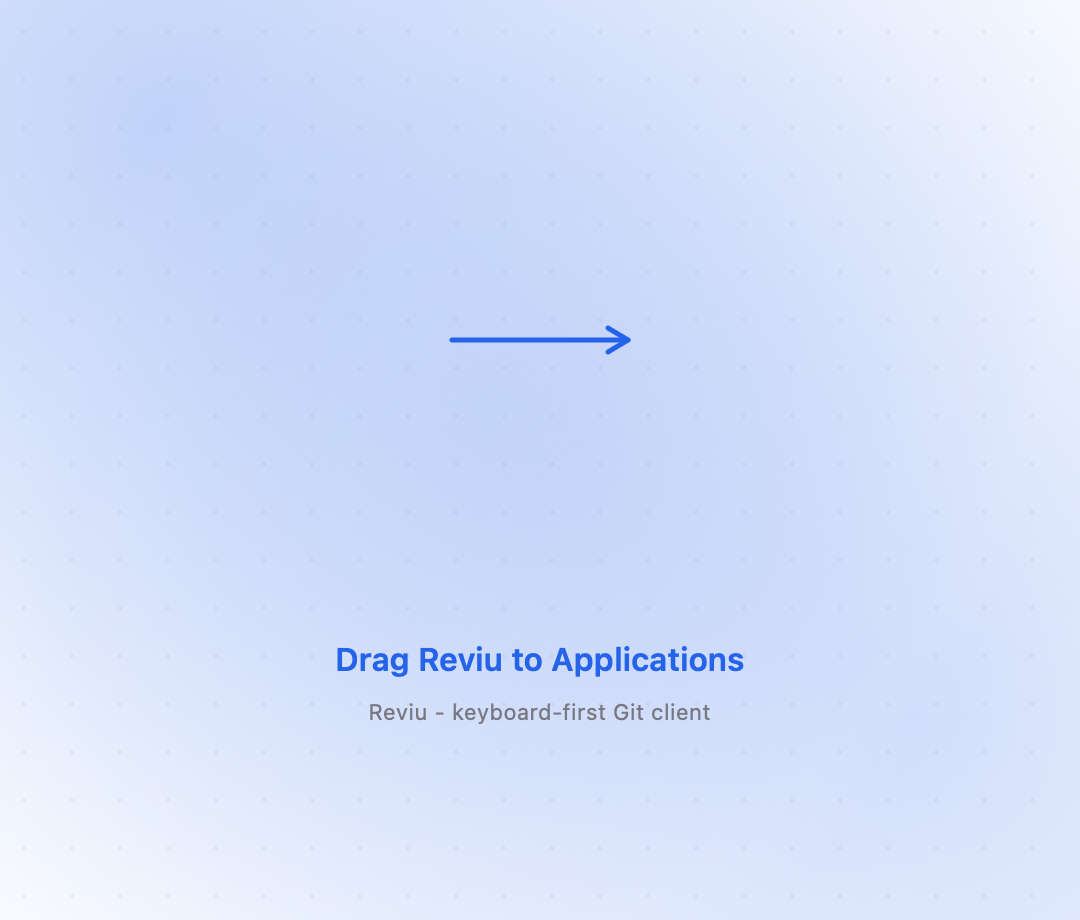
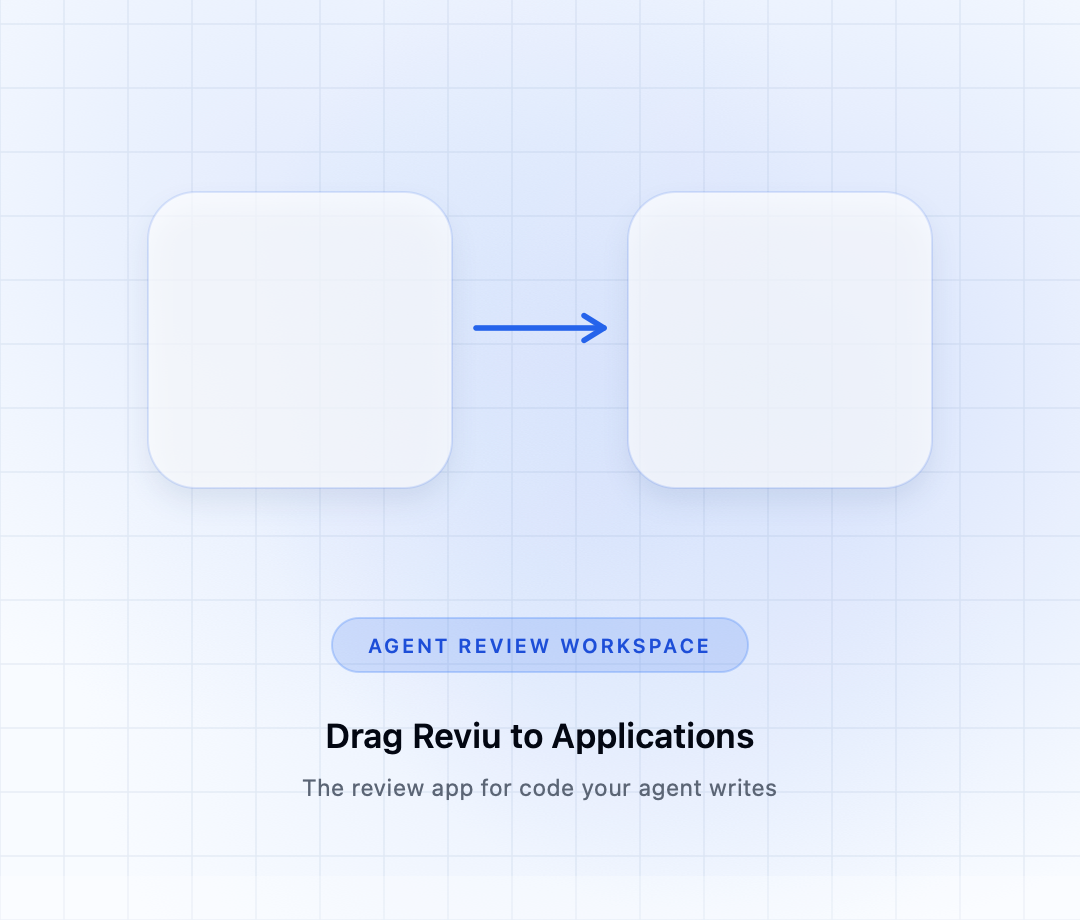
style(macos): refresh DMG installer background

diff --git a/desktop/scripts/assets/generate-dmg-background.swift b/desktop/scripts/assets/generate-dmg-background.swift
@@ -29,26 +29,25 @@ func rgb(_ r: Int, _ g: Int, _ b: Int, _ a: CGFloat = 1) -> CGColor {
     CGColor(srgbRed: CGFloat(r) / 255, green: CGFloat(g) / 255, blue: CGFloat(b) / 255, alpha: a)
 }
 
-let white = rgb(255, 255, 255)
-let lightBlue = rgb(0x80, 0xCA, 0xFF)
-let indigo = rgb(0x4F, 0x46, 0xE5)
+let background = rgb(0xF8, 0xFB, 0xFF)
+let panel = rgb(0xFF, 0xFF, 0xFF)
 let primary = rgb(0x25, 0x63, 0xEB)
-let mutedFg = rgb(120, 120, 130)
+let primaryLight = rgb(0x1D, 0x4E, 0xD8)
+let foreground = rgb(0x03, 0x07, 0x12)
+let mutedForeground = rgb(0x5B, 0x65, 0x75)
 
-ctx.setFillColor(white)
+ctx.setFillColor(background)
 ctx.fill(CGRect(x: 0, y: 0, width: widthPt, height: heightPt))
 
 func radialBlob(center: CGPoint, radius: CGFloat, color: CGColor, alpha: CGFloat) {
     let comps = color.components ?? [0, 0, 0, 1]
-    let r = comps[0], g = comps[1], b = comps[2]
-    let inner = CGColor(srgbRed: r, green: g, blue: b, alpha: alpha)
-    let outer = CGColor(srgbRed: r, green: g, blue: b, alpha: 0)
+    let inner = CGColor(srgbRed: comps[0], green: comps[1], blue: comps[2], alpha: alpha)
+    let outer = CGColor(srgbRed: comps[0], green: comps[1], blue: comps[2], alpha: 0)
     let gradient = CGGradient(
         colorsSpace: colorSpace,
         colors: [inner, outer] as CFArray,
         locations: [0, 1]
     )!
-    ctx.saveGState()
     ctx.drawRadialGradient(
         gradient,
         startCenter: center,
@@ -57,37 +56,64 @@ func radialBlob(center: CGPoint, radius: CGFloat, color: CGColor, alpha: CGFloat
         endRadius: radius,
         options: []
     )
+}
+
+radialBlob(center: CGPoint(x: 400, y: 270), radius: 280, color: primary, alpha: 0.16)
+radialBlob(center: CGPoint(x: 150, y: 350), radius: 260, color: primary, alpha: 0.10)
+radialBlob(center: CGPoint(x: 270, y: 120), radius: 230, color: primary, alpha: 0.06)
+
+ctx.saveGState()
+ctx.setStrokeColor(CGColor(srgbRed: 0.37, green: 0.48, blue: 0.68, alpha: 0.12))
+ctx.setLineWidth(0.7)
+let gridSpacing: CGFloat = 32
+var gridX: CGFloat = 0
+while gridX <= widthPt {
+    ctx.move(to: CGPoint(x: gridX, y: 0))
+    ctx.addLine(to: CGPoint(x: gridX, y: heightPt))
+    gridX += gridSpacing
+}
+var gridY: CGFloat = 0
+while gridY <= heightPt {
+    ctx.move(to: CGPoint(x: 0, y: gridY))
+    ctx.addLine(to: CGPoint(x: widthPt, y: gridY))
+    gridY += gridSpacing
+}
+ctx.strokePath()
+ctx.restoreGState()
+
+func roundedRect(_ rect: CGRect, radius: CGFloat) -> CGPath {
+    CGPath(roundedRect: rect, cornerWidth: radius, cornerHeight: radius, transform: nil)
+}
+
+func drawCard(center: CGPoint) {
+    let rect = CGRect(x: center.x - 76, y: center.y - 74, width: 152, height: 148)
+    ctx.saveGState()
+    ctx.setShadow(offset: CGSize(width: 0, height: -14), blur: 28, color: CGColor(srgbRed: 0.10, green: 0.20, blue: 0.40, alpha: 0.14))
+    ctx.setFillColor(CGColor(srgbRed: 1, green: 1, blue: 1, alpha: 0.68))
+    ctx.addPath(roundedRect(rect, radius: 24))
+    ctx.fillPath()
+    ctx.restoreGState()
+
+    ctx.saveGState()
+    ctx.setStrokeColor(CGColor(srgbRed: 0.18, green: 0.38, blue: 0.92, alpha: 0.14))
+    ctx.setLineWidth(1)
+    ctx.addPath(roundedRect(rect, radius: 24))
+    ctx.strokePath()
     ctx.restoreGState()
 }
 
-radialBlob(center: CGPoint(x: 80, y: 400), radius: 460, color: primary, alpha: 0.28)
-radialBlob(center: CGPoint(x: 460, y: 100), radius: 460, color: primary, alpha: 0.20)
-radialBlob(center: CGPoint(x: 270, y: 230), radius: 280, color: primary, alpha: 0.08)
-
-ctx.saveGState()
-ctx.setFillColor(CGColor(srgbRed: 0.15, green: 0.18, blue: 0.30, alpha: 0.06))
-let dotSpacing: CGFloat = 24
-let dotRadius: CGFloat = 1.0
-var y: CGFloat = dotSpacing / 2
-while y < heightPt {
-    var x: CGFloat = dotSpacing / 2
-    while x < widthPt {
-        ctx.fillEllipse(in: CGRect(x: x - dotRadius, y: y - dotRadius, width: dotRadius * 2, height: dotRadius * 2))
-        x += dotSpacing
-    }
-    y += dotSpacing
-}
-ctx.restoreGState()
-
 let iconLeftCenter = CGPoint(x: 150, y: heightPt - 170)
 let iconRightCenter = CGPoint(x: 390, y: heightPt - 170)
-let arrowY = iconLeftCenter.y
-let arrowStartX = iconLeftCenter.x + 76
-let arrowEndX = iconRightCenter.x - 76
+drawCard(center: iconLeftCenter)
+drawCard(center: iconRightCenter)
+
+let arrowY = iconLeftCenter.y + 6
+let arrowStartX = iconLeftCenter.x + 88
+let arrowEndX = iconRightCenter.x - 88
 
 ctx.saveGState()
 ctx.setStrokeColor(primary)
-ctx.setLineWidth(2.5)
+ctx.setLineWidth(2.8)
 ctx.setLineCap(.round)
 ctx.setLineJoin(.round)
 ctx.move(to: CGPoint(x: arrowStartX, y: arrowY))
@@ -96,21 +122,21 @@ ctx.strokePath()
 
 let head: CGFloat = 10
 ctx.move(to: CGPoint(x: arrowEndX, y: arrowY))
-ctx.addLine(to: CGPoint(x: arrowEndX - head, y: arrowY + head * 0.6))
+ctx.addLine(to: CGPoint(x: arrowEndX - head, y: arrowY + head * 0.62))
 ctx.move(to: CGPoint(x: arrowEndX, y: arrowY))
-ctx.addLine(to: CGPoint(x: arrowEndX - head, y: arrowY - head * 0.6))
+ctx.addLine(to: CGPoint(x: arrowEndX - head, y: arrowY - head * 0.62))
 ctx.strokePath()
 ctx.restoreGState()
 
-func drawText(_ string: String, at point: CGPoint, font: NSFont, color: CGColor, centered: Bool = true) {
-    let nsColor = NSColor(cgColor: color) ?? NSColor.black
+func drawText(_ string: String, at point: CGPoint, font: NSFont, color: CGColor, centered: Bool = true, kern: CGFloat = 0.2) {
+    let nsColor = NSColor(cgColor: color) ?? NSColor.white
     let paragraph = NSMutableParagraphStyle()
     paragraph.alignment = centered ? .center : .left
     let attrs: [NSAttributedString.Key: Any] = [
         .font: font,
         .foregroundColor: nsColor,
         .paragraphStyle: paragraph,
-        .kern: 0.2
+        .kern: kern,
     ]
     let attr = NSAttributedString(string: string, attributes: attrs)
     let size = attr.size()
@@ -127,18 +153,36 @@ func drawText(_ string: String, at point: CGPoint, font: NSFont, color: CGColor,
 
 func bestFont(_ candidates: [String], size: CGFloat, weight: NSFont.Weight) -> NSFont {
     for name in candidates {
-        if let f = NSFont(name: name, size: size) {
-            return f
+        if let font = NSFont(name: name, size: size) {
+            return font
         }
     }
     return NSFont.systemFont(ofSize: size, weight: weight)
 }
 
-let titleFont = bestFont(["Poppins-SemiBold", "Poppins-Medium", "Poppins"], size: 16, weight: .semibold)
-let captionFont = bestFont(["Poppins-Regular", "Poppins"], size: 11, weight: .regular)
+let badgeFont = bestFont(["Poppins-SemiBold", "Poppins"], size: 10, weight: .semibold)
+let titleFont = bestFont(["Poppins-SemiBold", "Poppins-Medium", "Poppins"], size: 17, weight: .semibold)
+let captionFont = bestFont(["Poppins-Regular", "Poppins"], size: 11.5, weight: .regular)
 
-drawText("Drag Reviu to Applications", at: CGPoint(x: widthPt / 2, y: 130), font: titleFont, color: primary)
-drawText("Reviu - keyboard-first Git client", at: CGPoint(x: widthPt / 2, y: 104), font: captionFont, color: mutedFg)
+let badgeRect = CGRect(x: 166, y: 124, width: 208, height: 27)
+ctx.saveGState()
+ctx.setFillColor(CGColor(srgbRed: 0.145, green: 0.388, blue: 0.922, alpha: 0.16))
+ctx.addPath(roundedRect(badgeRect, radius: 13.5))
+ctx.fillPath()
+ctx.setStrokeColor(CGColor(srgbRed: 0.36, green: 0.58, blue: 0.98, alpha: 0.36))
+ctx.setLineWidth(1)
+ctx.addPath(roundedRect(badgeRect, radius: 13.5))
+ctx.strokePath()
+ctx.restoreGState()
+
+drawText("AGENT REVIEW WORKSPACE", at: CGPoint(x: badgeRect.midX, y: badgeRect.midY - 0.5), font: badgeFont, color: primaryLight, kern: 1.2)
+drawText("Drag Reviu to Applications", at: CGPoint(x: widthPt / 2, y: 92), font: titleFont, color: foreground)
+drawText("The review app for code your agent writes", at: CGPoint(x: widthPt / 2, y: 66), font: captionFont, color: mutedForeground)
+
+ctx.saveGState()
+ctx.setFillColor(panel.copy(alpha: 0.28) ?? panel)
+ctx.fill(CGRect(x: 0, y: 0, width: widthPt, height: 22))
+ctx.restoreGState()
 
 guard let cgImage = ctx.makeImage() else {
     fatalError("Failed to make image")
@@ -153,7 +197,7 @@ guard let dest = CGImageDestinationCreateWithURL(outURL as CFURL, UTType.png.ide
 
 let props: [CFString: Any] = [
     kCGImagePropertyDPIWidth: 144,
-    kCGImagePropertyDPIHeight: 144
+    kCGImagePropertyDPIHeight: 144,
 ]
 CGImageDestinationAddImage(dest, cgImage, props as CFDictionary)
 guard CGImageDestinationFinalize(dest) else {
